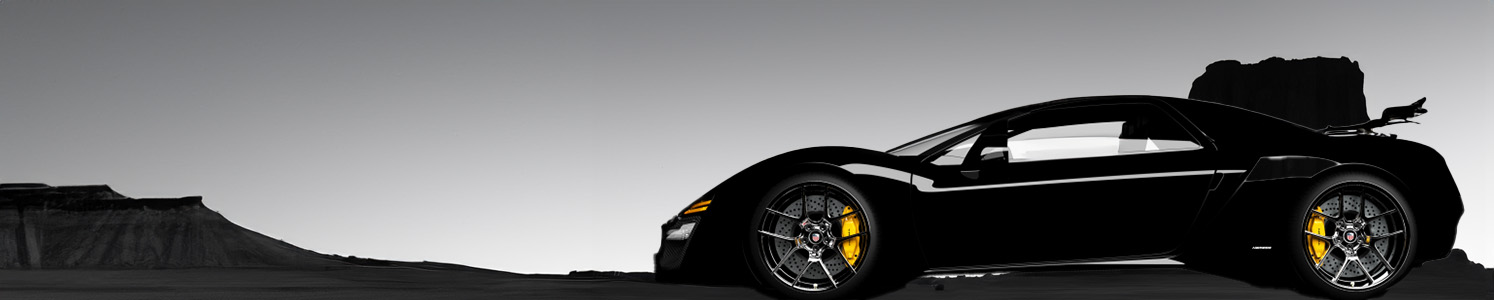
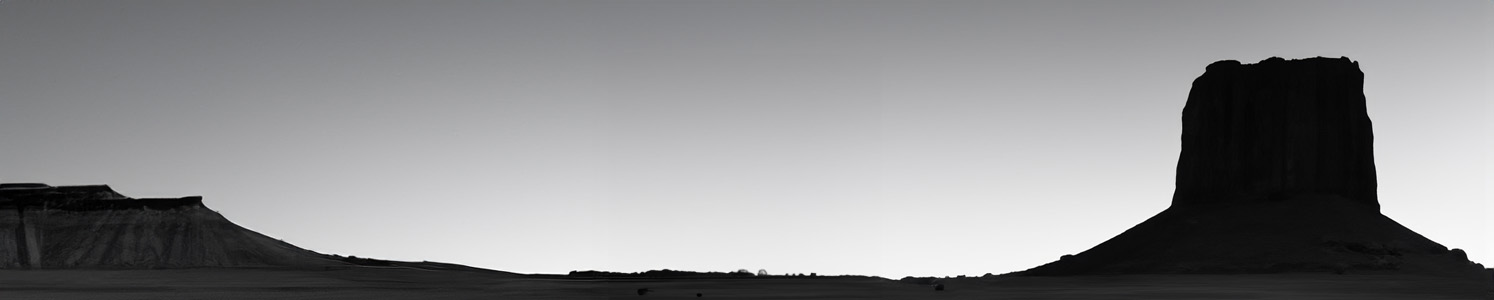
stuff

Changed region(s): [[0.4003, 0.3, 0.8313, 1.0], [0.8005, 0.33, 0.9853, 1.0]]

diff --git a/homepage-stuff/index.html b/homepage-stuff/index.html
@@ -112,9 +112,37 @@
     <section class="hero-blocker" id="hero-blocker"></section>
 
     <section class="side-scroll-feature" id="side-scroll-feature">
-        <!-- <p>Lorem ipsum dolor sit amet consectetur adipisicing elit. Sint repellat eos nemo dolorum eligendi illum iste. Illum, voluptatum obcaecati? Consequuntur, aut earum! Est architecto officia aspernatur nobis qui, rerum quaerat.</p> -->
+        
     </section>
+    <img src="homepage-img/side-placeholder.png" alt="car" class="side-scroll-car" id="side-scroll-car">
     
+    
+    <section class="side-blocker" id="side-blocker">
+        <section class="scroll-alltext" id="scroll-alltext">
+        <h3 class="scroll-header">Header for thing</h3>
+        <p class="scroll-text">Lorem ipsum dolor sit amet consectetur adipisicing elit. Sint repellat eos nemo dolorum eligendi illum iste. Illum, voluptatum obcaecati? Consequuntur, aut earum! Est architecto officia aspernatur nobis qui, rerum quaerat.</p>
+        </section>
+    </section>
+
+    <section class="vison-mission">
+        <h2>About Us</h2>
+        <section class="vision-mission_row">
+            <img src="" alt="">
+            <section class="vision-mission_column">
+                <h3>Our Vision and Mission</h3>
+                <p>Lorem ipsum, dolor sit amet consectetur adipisicing elit. Explicabo doloribus laborum aliquam quisquam, harum vitae eos deleniti laboriosam modi soluta qui neque provident architecto voluptate labore eum, dignissimos obcaecati porro, perspiciatis molestiae assumenda incidunt unde! Repellendus dolores, quae, soluta sit cum eaque, recusandae voluptate vel cupiditate deleniti minus fuga veniam.</p>
+            </section>
+        </section>
+        <section class="vision-mission-readmore">
+            <p>Read More</p>
+            <svg xmlns="http://www.w3.org/2000/svg" width="30" height="31" viewBox="0 0 30 31" fill="none">
+                <path d="M12.2423 22.9236C15.2239 22.9236 18.0834 21.7687 20.1917 19.713C22.3001 17.6572 23.4845 14.8691 23.4845 11.9618C23.4845 9.05456 22.3001 6.26638 20.1917 4.21064C18.0834 2.1549 15.2239 1 12.2423 1C9.26063 1 6.40111 2.1549 4.29278 4.21064C2.18445 6.26638 1 9.05456 1 11.9618C1 14.8691 2.18445 17.6572 4.29278 19.713C6.40111 21.7687 9.26063 22.9236 12.2423 22.9236Z" stroke="white" stroke-width="2"/>
+                <path d="M19.5166 20.3423L28.7749 29.4341" stroke="white" stroke-width="2" stroke-linecap="round"/>
+            </svg>
+        </section>
+    </section>
+
+
     <section class="temp"></section>
     
 

diff --git a/homepage-stuff/homepage-js/index.js b/homepage-stuff/homepage-js/index.js
@@ -4,6 +4,9 @@ document.getElementById("index_carosel-option3").addEventListener("click", caros
 document.getElementById("index_carosel-option4").addEventListener("click", carosel_option4);
 document.getElementById("side-scroll-feature").addEventListener("click", side_feature_open);
 
+document.getElementById("side-scroll-car").addEventListener("click", side_feature_open);
+
+
 
 const option1 = document.getElementById("index_carosel-option1")
 const option2 = document.getElementById("index_carosel-option2")
@@ -12,7 +15,10 @@ const option4 = document.getElementById("index_carosel-option4")
 const hero = document.getElementById("hero")
 const blocker = document.getElementById("hero-blocker")
 
-side_feature_clicked = false
+const sideblocker = document.getElementById("side-blocker")
+
+
+side_feature_clicked = true
 
 function carosel_option1(){
     option1.classList.add("selected")
@@ -68,11 +74,29 @@ function carosel_option4(){
 function side_feature_open(){
     if( side_feature_clicked == false)
     {
-        document.getElementById("side-scroll-feature").style.backgroundImage = "url(homepage-img/side-view-maybe2.jpg)"
+        document.getElementById("side-scroll-car").style.bottom = "-55.7%"
+        document.getElementById("side-scroll-car").style.right = "5%"
         side_feature_clicked = true
+        sideblocker.style.animationName = "sideblocker-out"
+
+        // setTimeout(() =>  document.getElementById("scroll-alltext").style.zIndex = "-1", 1000)
+        // document.getElementById("scroll-alltext").style.opacity = "0"
+        
     }
     else{
-        document.getElementById("side-scroll-feature").style.backgroundImage = "url(homepage-img/side-view-maybe.jpg)"
+        document.getElementById("side-scroll-car").style.bottom = "-55.7%"
+        document.getElementById("side-scroll-car").style.right = "47%"
+        // document.getElementById("side-scroll-feature").style.width = "37.5%"
+
+        sideblocker.style.animationName = "sideblocker-in"
+
+        
+        // setTimeout(() =>  document.getElementById("scroll-alltext").style.zIndex = "2", 1000)
+        // setTimeout(() =>  document.getElementById("scroll-alltext").style.opacity = "1", 1000)
+
+
         side_feature_clicked = false
     }
 }
+
+

diff --git a/homepage-stuff/homepage-css/index.css b/homepage-stuff/homepage-css/index.css
@@ -118,18 +118,113 @@ body{
     background-size: contain;
     border-radius: 5px;
     transition: scale 0.5s;
+    z-index: 1;
+    
+    
 }
 
 .side-scroll-feature:hover{
     scale: 1.05;
     cursor: pointer;
-    /* background-image: url(../homepage-img/side-view-maybe2.jpg); */
+}
+
+.side-scroll-feature:hover ~ .side-scroll-car{
+    scale: 0.65;
+    cursor: pointer;
 
 }
+
+.side-scroll-car:hover{
+    scale: 0.65;
+    cursor: pointer;
+
+}
+
+ .side-scroll-feature:has(+ .side-scroll-car:hover){
+    scale: 1.05;
+    cursor: pointer;
+
+}
+
+
+
+.side-scroll-car{
+    position: absolute;
+    bottom: -55.7%;
+    scale: 0.6;
+    right: 5%;
+    transition: scale 0.5s, right 1s;
+    z-index: 1;
+}
+
+.side-blocker{
+    z-index: 1;
+    position: absolute;
+    width: 75%;
+    height: 35vh;
+
+    margin-left: 12.5%;
+    color: white;
+    margin-top: 5%;
+    background-repeat: no-repeat;
+    background-size: contain;
+
+
+    
+    background-color: black;
+
+    animation: blah 1s forwards;
+
+    bottom: -38.5%;
+    right: -75%;
+}
+
+
+@keyframes sideblocker-in {
+    0% {right: -75%;}
+    100% {right: -28%;}
+}
+
+    @keyframes sideblocker-out {
+        0% {right: -28%;}
+        100% {right: -75%;}
+}
+
 
 .temp{
     display: flex;
     width: 100%;
     height: 40vh;
     margin-top: 5%;
+}
+
+.scroll-header{
+    margin-left: 15%;
+
+    right: -20%;
+    width: 100%;
+    z-index: 2;
+    bottom: 65%;
+    font-size: 40px;
+}
+
+.scroll-text{
+
+
+    right: 11%;
+    width: 75%;
+    z-index: 2;
+    bottom: 15%;
+    font-size: 20px;
+}
+
+.scroll-alltext{
+    margin-left: 5%;
+    width: 50%;
+    height: 100%;
+    z-index: 2;
+
+    font-size: 40px;
+    z-index: -1;
+
 }
